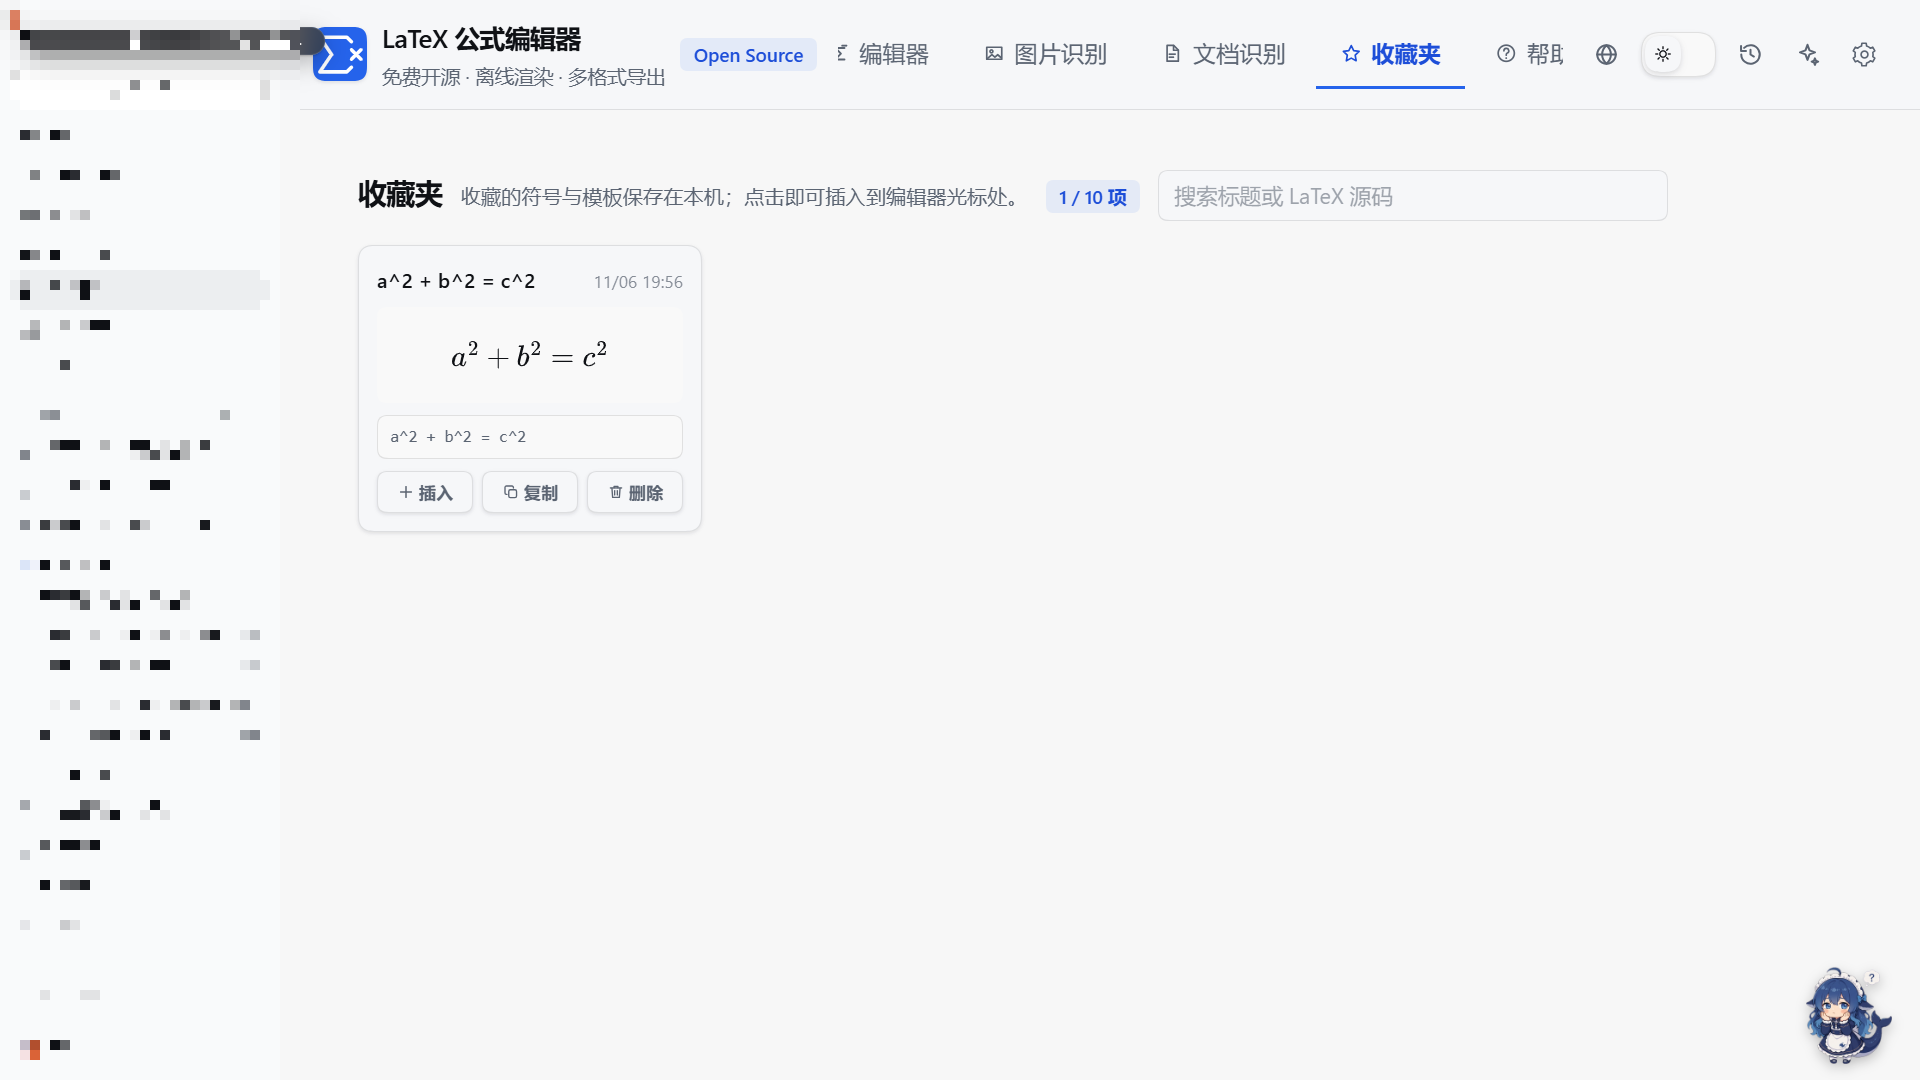
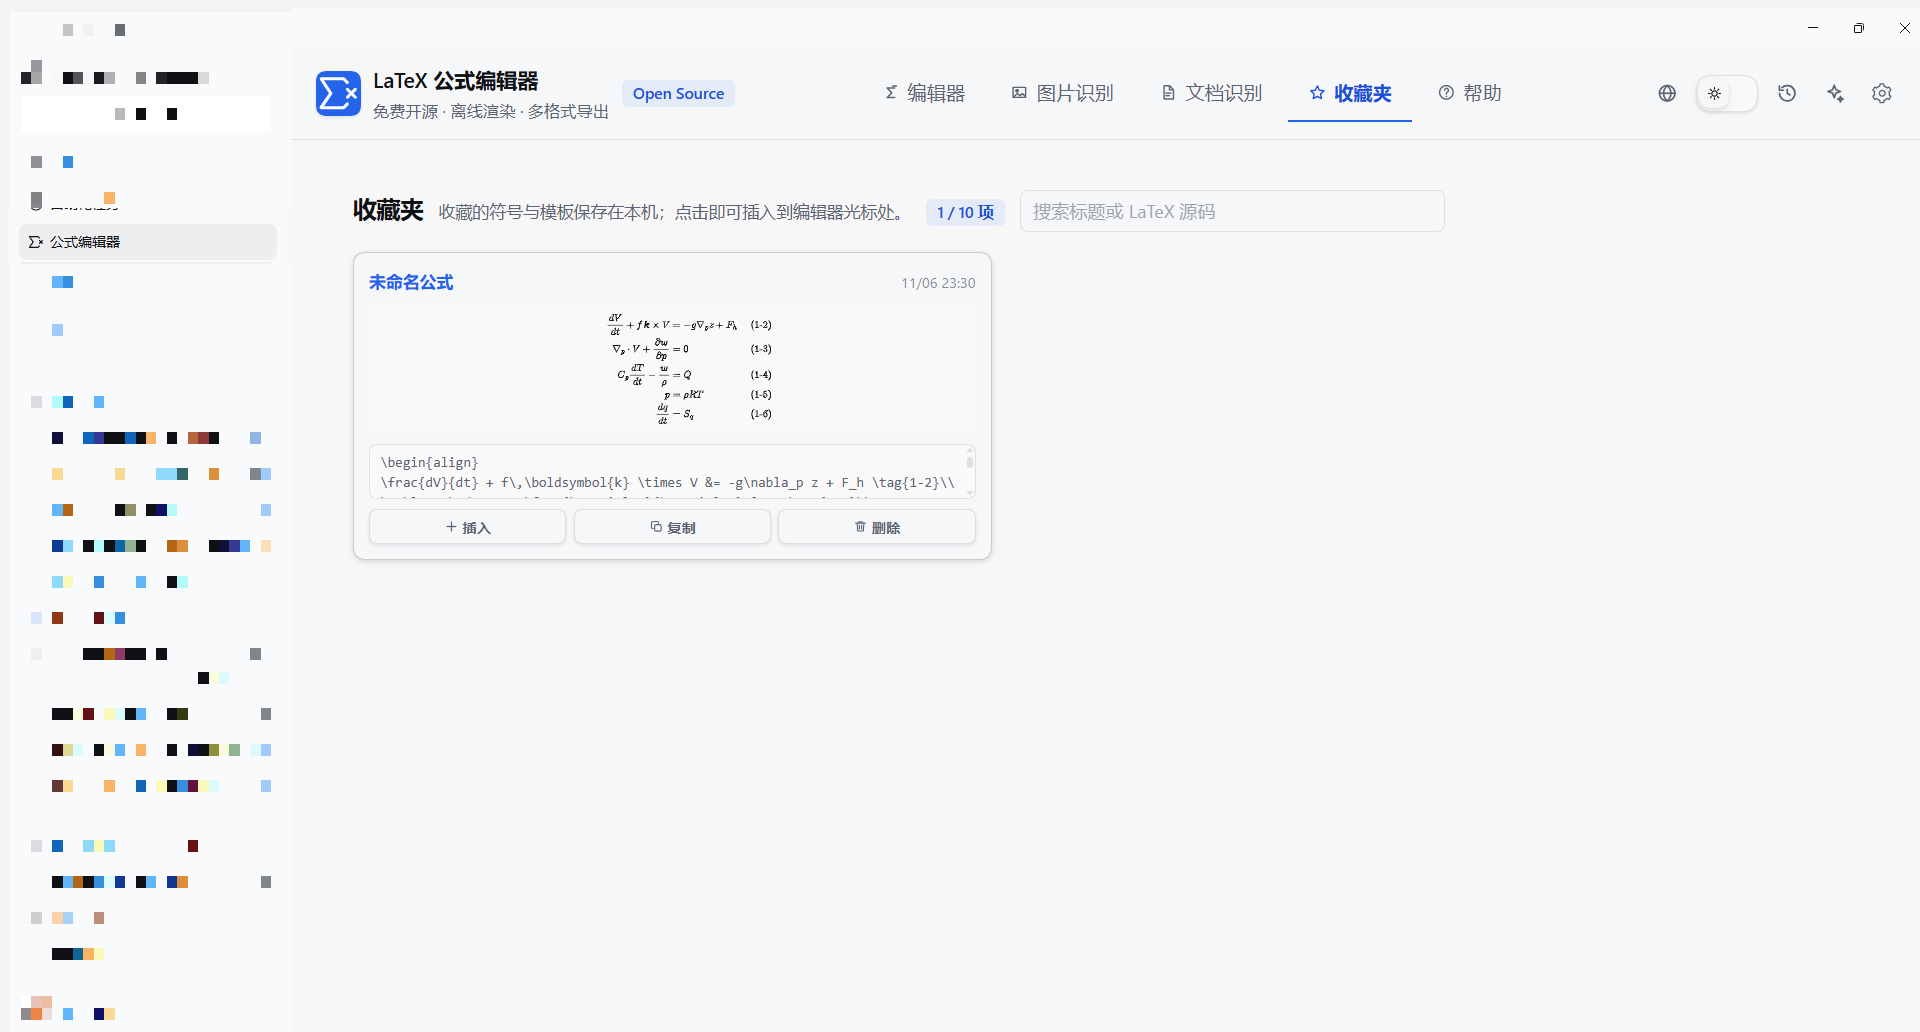
feat: default UI scale 125%; refresh README screenshots at 125% with the workspace column mosaicked

diff --git a/lib/60-settings-help.js b/lib/60-settings-help.js
@@ -154,17 +154,17 @@
       type: 'select',
       zh: '界面缩放',
       en: 'Interface scale',
-      hintZh: '整个工作台相对 DSH 界面的缩放，默认 150%',
-      hintEn: 'Scales the whole workbench relative to the DSH shell; 150% by default',
+      hintZh: '整个工作台相对 DSH 界面的缩放，默认 125%',
+      hintEn: 'Scales the whole workbench relative to the DSH shell; 125% by default',
       options: [
         { value: 1, zh: '100%（与 DSH 一致）', en: '100% (matches DSH)' },
-        { value: 1.25, zh: '125%', en: '125%' },
-        { value: 1.5, zh: '150%（默认）', en: '150% (default)' },
+        { value: 1.25, zh: '125%（默认）', en: '125% (default)' },
+        { value: 1.5, zh: '150%', en: '150%' },
         { value: 1.5, zh: '150%', en: '150%' },
         { value: 1.75, zh: '175%', en: '175%' },
         { value: 2, zh: '200%', en: '200%' },
       ],
-      default: 1.5,
+      default: 1.25,
     },
     {
       key: 'previewScale',

diff --git a/lib/00-core.js b/lib/00-core.js
@@ -407,7 +407,7 @@
     favoritesLimit: 10,
     language: 'auto',
     themeMode: 'auto',
-    uiScale: 1.5,
+    uiScale: 1.25,
     wrap: true,
     livePreview: true,
     extensions: ['ams', 'color', 'newcommand', 'noundefined', 'cancel', 'bbox', 'physics', 'mhchem', 'unicode', 'textmacros'],

diff --git a/README.en.md b/README.en.md
@@ -8,7 +8,7 @@ bundled MathJax, PDFs are parsed by the bundled PDF.js — no account, no quota,
 
 - Sidebar entry → one panel with five views: **Editor / Image OCR / Document OCR / Favourites / Help**
 - Live LaTeX rendering (MathJax 3.2.2, SVG output, offline)
-- UI scale **150%** by default (Settings → UI scale, 100%–200%)
+- UI scale **125%** by default (Settings → UI scale, 100%–200%)
 - Light / dark theme switch (follows the system by default), 简体中文 / 繁體中文 / English
 - Share links encode the formula in the URL hash — nothing goes through a server
 - Nine export formats plus four export menus (image / code / escape / share)
@@ -89,7 +89,7 @@ The canvas background follows the theme: white in the light theme, black in the 
 
 ### Interface
 
-- **150%** scale by default, adjustable 100%–200%; narrow panels switch to a compact layout (tabs wrap, actions become icons, panels scroll internally)
+- **125%** scale by default, adjustable 100%–200%; narrow panels switch to a compact layout (tabs wrap, actions become icons, panels scroll internally)
 - Light / dark slider (sun / moon icons), system default
 - Language menu: 简体中文 / 繁體中文 / English (traditional Chinese is derived from the simplified dictionary on the fly)
 
@@ -132,7 +132,7 @@ vendor/                 MathJax 3.2.2 and PDF.js (shipped with the plugin)
 
 ## Settings
 
-- **Editor**: UI scale (150% default), source font size, word wrap, formula numbering, favourites limit
+- **Editor**: UI scale (125% default), source font size, word wrap, formula numbering, favourites limit
 - **Recognition**: `auto` prefers the harness model; otherwise fill in an OpenAI-compatible endpoint (URL / model / key)
 - Rendering and export are fully offline; only OCR sends the image to your backend
 - Settings live in `<DSH_HOME>/latex-editor/settings.json`
